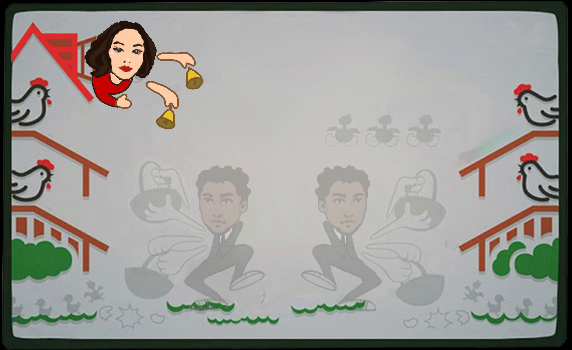
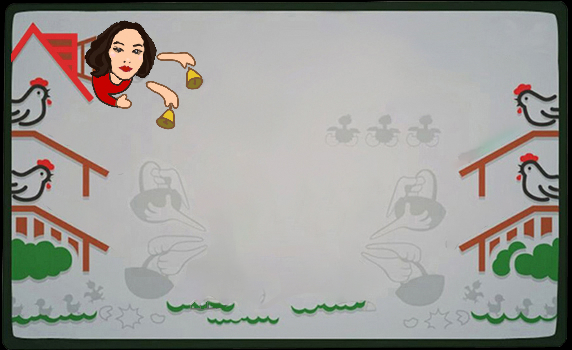
wooow

Changed region(s): [[0.535, 0.4571, 0.6836, 0.8571], [0.3269, 0.4571, 0.4755, 0.8857], [0.3269, 0.6, 0.3566, 0.6286]]

diff --git a/css/style.css b/css/style.css
@@ -74,8 +74,61 @@ h3 {
   border-radius: 0;
   color: #E0E0D5;
 }
+/* edit */
+
+#game-setup {
+  /* display: none; */
+  width: 572px;
+  height: 350px;
+  margin: 0 auto;
+  background: transparent url('../img/game-start-bg.jpg') center center no-repeat;
+  position: relative;
+
+  padding: 25px 50px;
+  box-sizing: border-box;
+}
+
+#game-setup > h1 {
+  margin-bottom: 15px;
+  margin-top: 10px;
+  padding-left: 30px;
+  display: block;
+  font-size: 14px;
+  font-weight: medium;
+  color: black;
+  text-transform: uppercase;
+  text-align: left;
+  font-family: system-ui, -apple-system, BlinkMacSystemFont, 'Segoe UI', Roboto, Oxygen, Ubuntu, Cantarell, 'Open Sans', 'Helvetica Neue', sans-serif;
+}
+
+#game-setup > div {
+  display: flex;
+  flex-wrap: wrap;
+}
+
+#game-setup > div > div {
+  width: 25%;
+  display: flex;
+  justify-content: center;
+  align-items: center;
+}
+
+#game-setup > div > div:last-child() {
+  width: 50%;
+}
+
+#game-setup > div > div > img {
+  /* width: 69px; */
+  /* height: 75px; */
+  margin: 5px 0;
+  /* display: block; */
+  /* margin: auto; */
+}
+
+/* edit */
 
 #game-wrap {
+  display: none;
 	width: 572px;
   height: 350px;
   margin: 0 auto;
@@ -490,6 +543,9 @@ h3 {
       -webkit-box-shadow: 0 1px 4px rgba(0, 0, 0, 0.3), 0 0 40px rgba(0, 0, 0, 0.1) inset;
       -moz-box-shadow: 0 1px 4px rgba(0, 0, 0, 0.3), 0 0 40px rgba(0, 0, 0, 0.1) inset;
       box-shadow: 0 1px 4px rgba(0, 0, 0, 0.3), 0 0 40px rgba(0, 0, 0, 0.1) inset;
+      font-family: system-ui, -apple-system, BlinkMacSystemFont, 'Segoe UI', Roboto, Oxygen, Ubuntu, Cantarell, 'Open Sans', 'Helvetica Neue', sans-serif;
+      font-weight: medium;
+      text-transform: uppercase;
     }
       #message > div p {
         font-size: 16px;

diff --git a/index.html b/index.html
@@ -9,6 +9,22 @@
 </head>
 <body>
   <div class="page">
+    <div id="game-setup">
+
+      <h1>Time to choose...</h1>
+      <div>
+        <div><img src="./img/heads/head-1.png" alt=""></div>
+        <div><img src="./img/heads/head-2.png" alt=""></div>
+        <div><img src="./img/heads/head-3.png" alt=""></div>
+        <div><img src="./img/heads/head-4.png" alt=""></div>
+        <div><img src="./img/heads/head-5.png" alt=""></div>
+        <div><img src="./img/heads/head-6.png" alt=""></div>
+        <div><img src="./img/heads/head-7.png" alt=""></div>
+        <div><img src="./img/heads/head-8.png" alt=""></div>
+        <div><img src="./img/heads/head-9.png" alt=""></div>
+        <div><img src="./img/heads/head-10.png" alt=""></div>
+      </div>
+    </div>
     <!-- <a href="https://shtange.github.io/catch-the-egg/" class="logo">Catch The Egg</a> -->
     <div id="game-wrap" data-bx="0" data-by="1" data-egg-0="0" data-egg-1="0" data-egg-2="0" data-egg-3="0" data-loss="0">
 
@@ -46,17 +62,20 @@
       </div>
 
     </div>
+
   </div>
 
   <!-- <div class="footer">
     developed by <a href="https://github.com/shtange">Yurii Shtanhei</a>
   </div> -->
 
+  
   <script src="js/comfy.js"></script>
   <script src="js/keyboard_input_manager.js"></script>
   <script src="js/game_components.js"></script>
   <script src="js/html_redraw.js"></script>
   <script src="js/game_manager.js"></script>
+  <script src="js/style_selector.js"></script>
   <script src="js/app.js"></script>
 
 </body>

diff --git a/js/style_selector.js b/js/style_selector.js
@@ -1,0 +1,36 @@
+// let page = document.querySelector('.page')
+// let gameboard = document.querySelector('#game-wrap')
+// let setupboard = document.querySelector('#game-setup')
+
+// // gameboard = page.removeChild(gameboard)
+
+// let wolf0 = document.querySelector('#game-wrap[data-bx="0"] .wolf')
+// let wolf1 = document.querySelector('#game-wrap[data-bx="1"] .wolf')
+
+
+// let names = ['аддис, роман, роман, ']
+
+// function changeSkin() {
+//     wolf0.style.background = "transparent url('../img/wolf/wolf-p-1.png') center center no-repeat"
+// }
+
+// 
+
+// (async () => {
+//     // let wolf0 = await document.querySelector('#game-wrap[data-bx="0"]')
+//     let wolf1 = await document.querySelector('#game-wrap[data-bx="1"] .wolf')
+
+//     // console.log(wolf0)
+//     console.log(wolf1)
+//   })();
+
+let wolf0 = document.querySelector('#game-wrap[data-bx="0"] .wolf')
+// let wolf1 = document.querySelector('#game-wrap[data-bx="1"] .wolf')
+let head = sessionStorage.getItem("name")
+console.log(head)
+
+wolf0.setAttribute('style', `background : transparent url('../showmanbattle-game/img/wolf/wolf-p-0-${head}') center center no-repeat` )
+// wolf0.style.background = `transparent url('../img/wolf/wolf-p-0-head-1') center center no-repeat`
+// wolf1.style.background = `transparent url('../img/wolf/wolf-p-1-head-1') center center no-repeat`
+
+// console.log(skin)

diff --git a/js/app.js b/js/app.js
@@ -1,5 +1,43 @@
-(function() {
 
-  var CatchTheEgg = new GameManager();
+( 
 
-})();
+  function() {
+
+  let setupboard = document.querySelector('#game-setup')
+  let gameboard = document.querySelector('#game-wrap')
+  // var skin
+
+
+
+  // function changeSkin() {
+  //     wolf0.style.background = "transparent url('../img/wolf/wolf-p-1.png') center center no-repeat"
+  // }
+
+  setupboard.addEventListener("click", function(event) {
+  if (event.target.tagName == 'IMG')
+  {
+    // console.log("Congrat!")
+    // start game
+    // console.log(event.target.src)
+    let head = event.target.src.replace(/^.*[\\\/]/, '')
+    // skin = head
+    // console.log(event.target.tagName)
+    console.log(head)
+    sessionStorage.setItem("name", head)
+    
+    gameboard.style.display = 'block'
+    setupboard.style.display = 'none'
+
+    let wolf0 = document.querySelector('#game-wrap[data-bx="0"] .wolf')
+    // let wolf1 = document.querySelector('#game-wrap[data-bx="1"] .wolf')
+    // console.log(wolf0, wolf1)
+
+    wolf0.style.background = `transparent url('../showmanbattle-game/img/wolf/wolf-p-0-${head}') center center no-repeat`
+
+
+    var CatchTheEgg = new GameManager();
+  }
+  })
+    // var skin 
+  }
+)();
